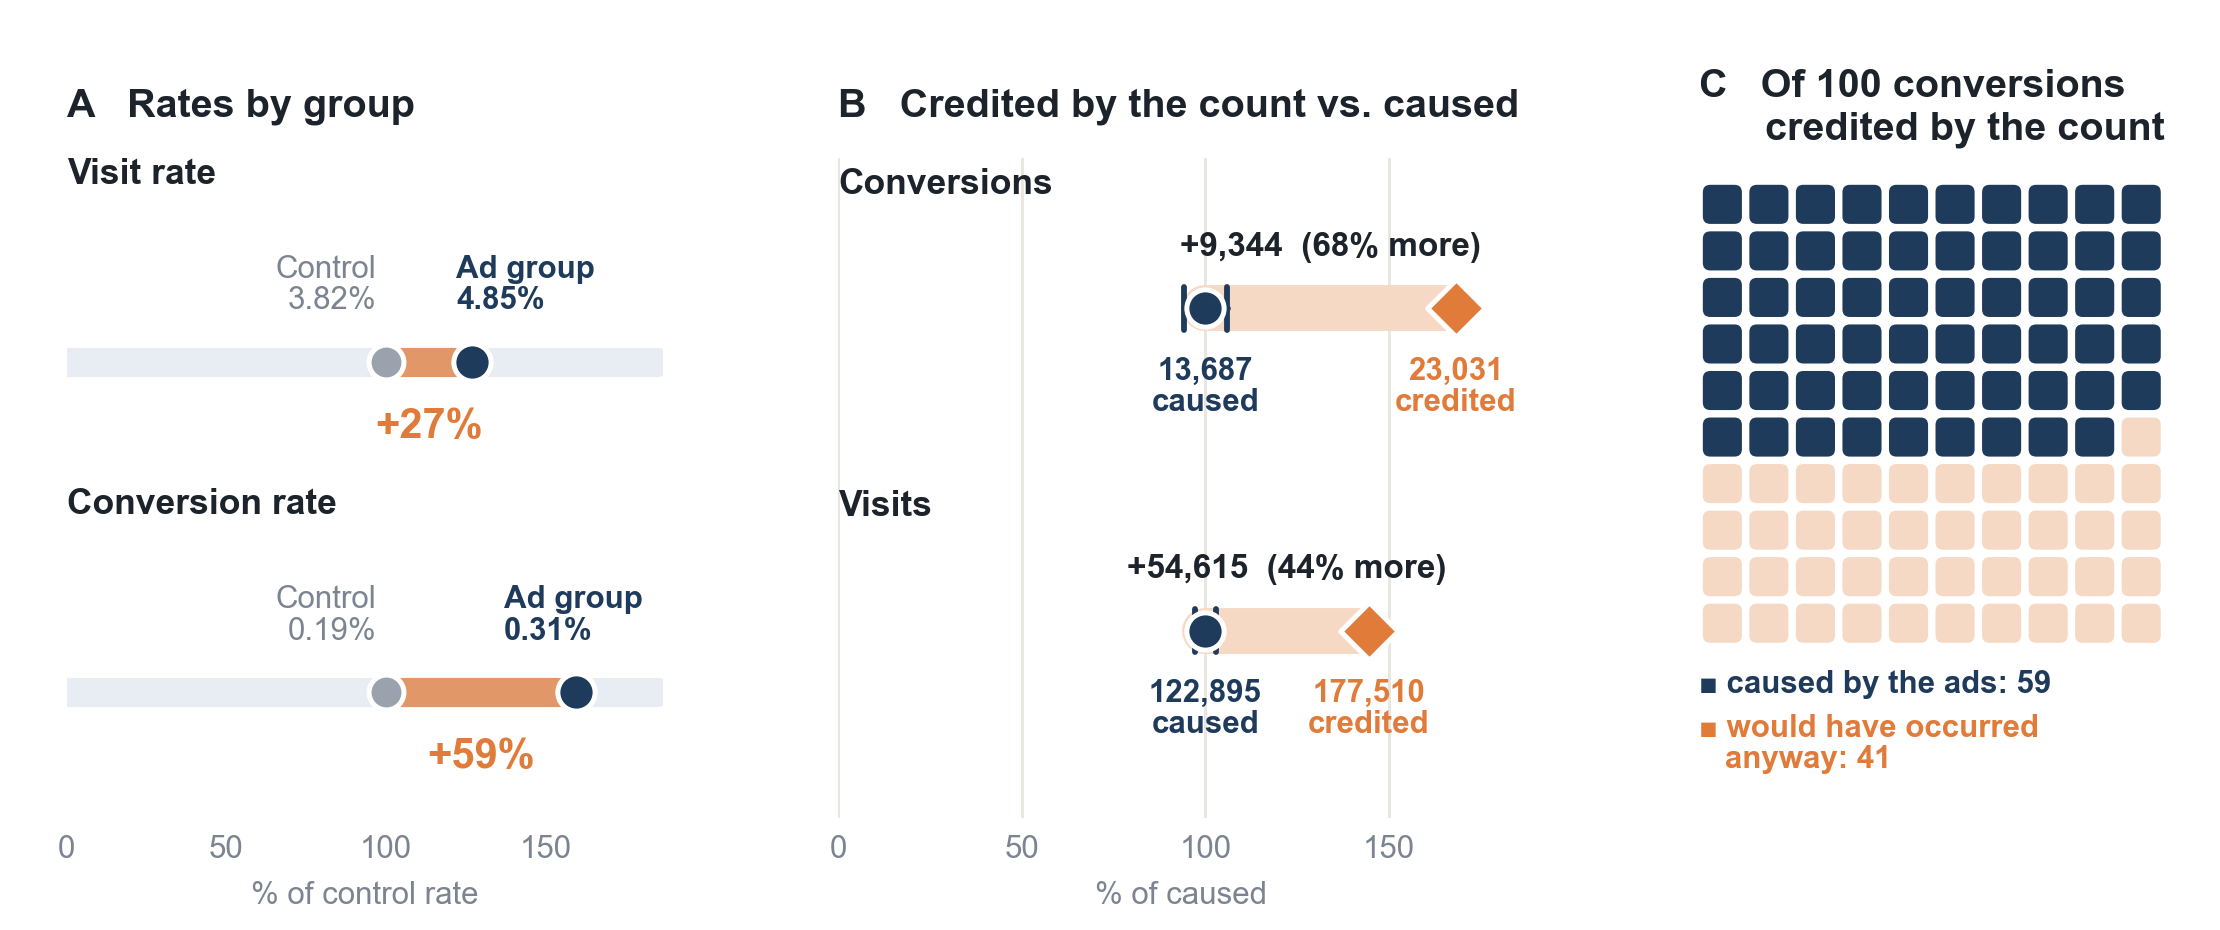
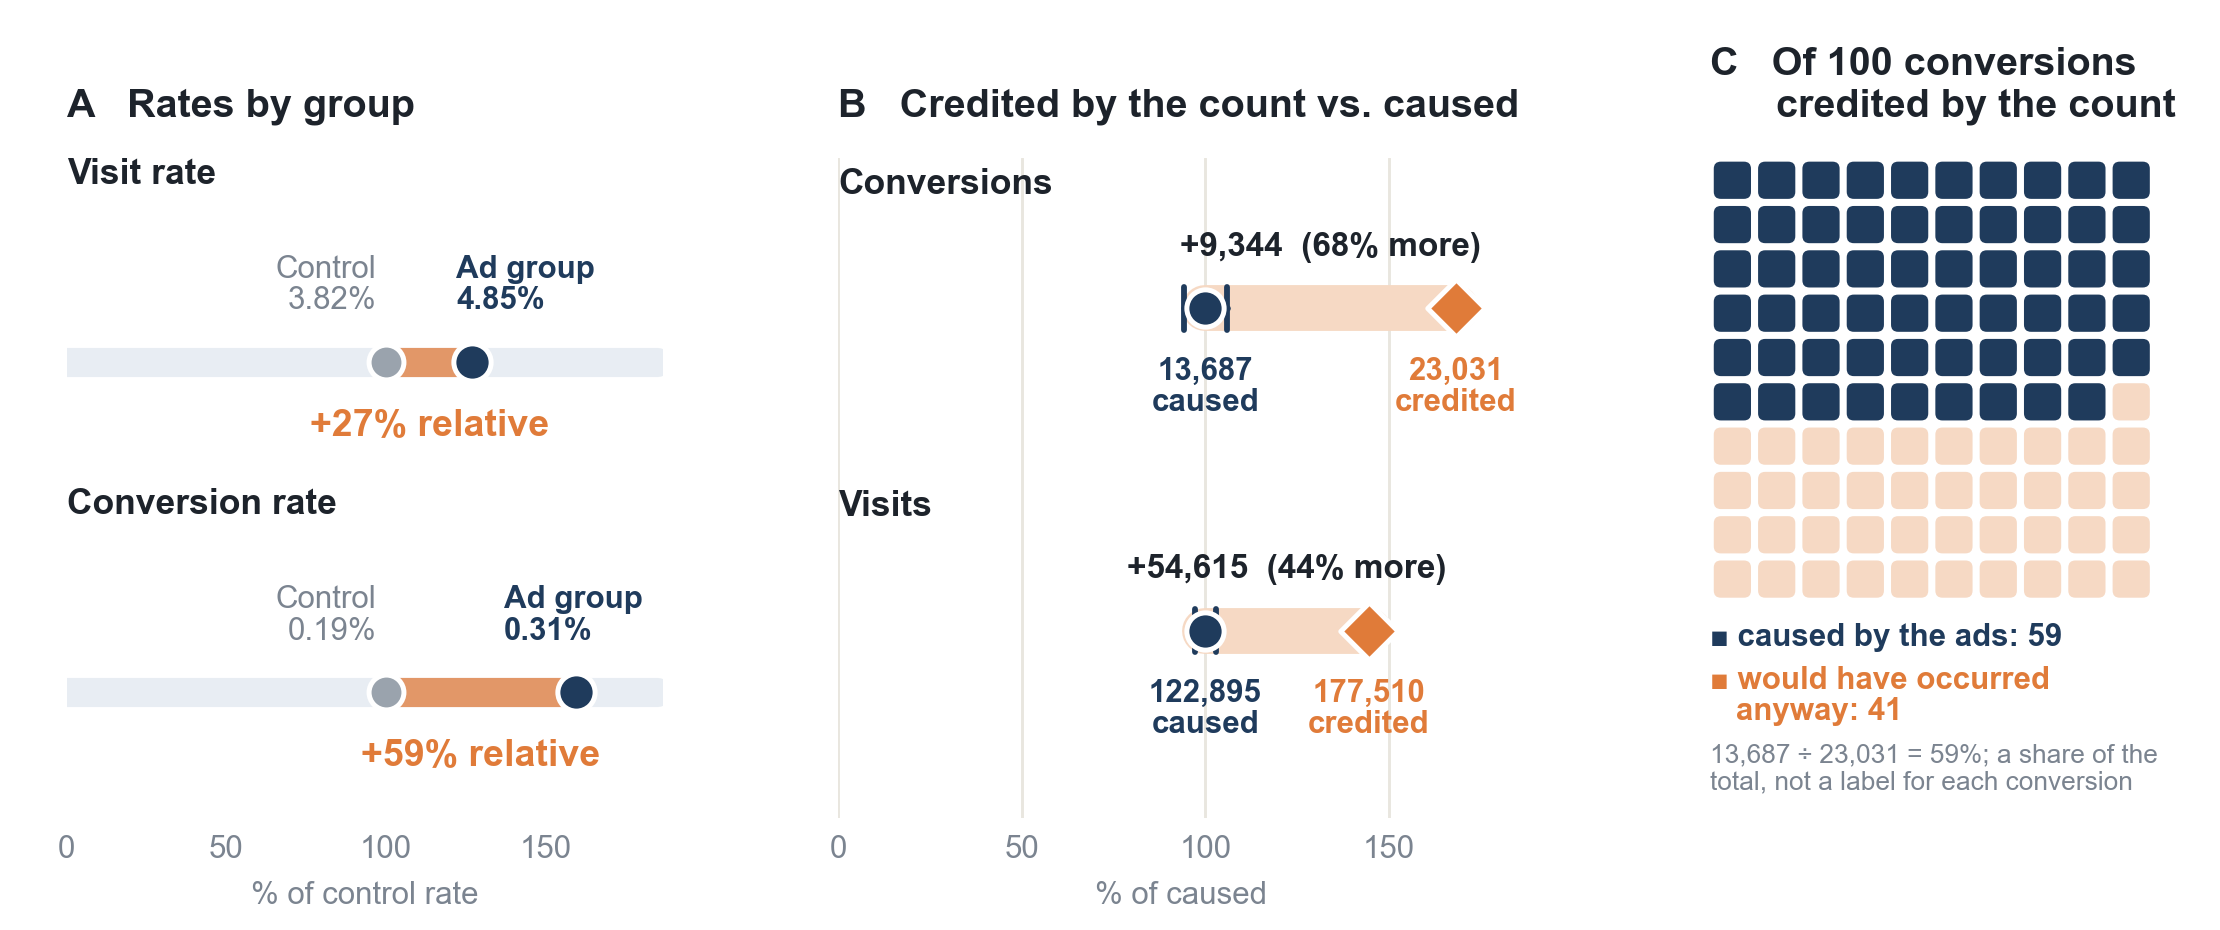
Separate the 59% lift from the 59-of-100 share in figure 1
- Panel A labels the lifts as relative
- Panel C shows the share's calculation and that it is a group-level share, not a label for each conversion
- The interactive legend states the same

Changed region(s): [[0.7459, 0.0312, 0.9946, 0.8731], [0.1554, 0.7796, 0.2797, 0.8419], [0.1243, 0.4366, 0.2486, 0.4677]]

diff --git a/docs/assets/explorer.js b/docs/assets/explorer.js
@@ -220,7 +220,7 @@ document.querySelectorAll("[data-count]").forEach(n => { const [v, d] = heroVals
   function hundred(k, dur) {
     const r = E[k], n = Math.round(100 * r.caused / r.credited);
     sq.forEach((s, i) => { s.style.transitionDelay = reduce ? "0ms" : `${(dur ? i * 7 : 0)}ms`; s.setAttribute("class", "sq " + (i < n ? "f-navy" : "f-osoft")); });
-    lgH.innerHTML = `<span><i style="background:var(--navy)"></i>Caused by the ads <b>${n}</b></span><span><i style="background:var(--orange-soft)"></i>Would have occurred anyway <b>${100 - n}</b></span>`;
+    lgH.innerHTML = `<span><i style="background:var(--navy)"></i>Caused by the ads <b>${n}</b></span><span><i style="background:var(--orange-soft)"></i>Would have occurred anyway <b>${100 - n}</b></span><span style="color:var(--muted)">${fmt(r.caused)} ÷ ${fmt(r.credited)}; a share of the total, not a label for each ${k === "conversion" ? "conversion" : "visit"}</span>`;
   }
   segControl($("#seg-gap"), v => set(v), key);
   drawHundred(); build();

diff --git a/docs/01.html b/docs/01.html
@@ -111,6 +111,6 @@
 </div></footer>
 <div id="tip" role="tooltip"></div>
 <script src="data.js"></script>
-<script src="assets/explorer.js?v=20261118c"></script>
+<script src="assets/explorer.js?v=20261118d"></script>
 </body>
 </html>

diff --git a/docs/02.html b/docs/02.html
@@ -105,6 +105,6 @@
 </div></footer>
 <div id="tip" role="tooltip"></div>
 <script src="data.js"></script>
-<script src="assets/explorer.js?v=20261118c"></script>
+<script src="assets/explorer.js?v=20261118d"></script>
 </body>
 </html>

diff --git a/docs/index.html b/docs/index.html
@@ -166,6 +166,6 @@
 </div></footer>
 <div id="tip" role="tooltip"></div>
 <script src="data.js"></script>
-<script src="assets/explorer.js?v=20261118c"></script>
+<script src="assets/explorer.js?v=20261118d"></script>
 </body>
 </html>

diff --git a/docs/03.html b/docs/03.html
@@ -85,6 +85,6 @@
 </div></footer>
 <div id="tip" role="tooltip"></div>
 <script src="data.js"></script>
-<script src="assets/explorer.js?v=20261118c"></script>
+<script src="assets/explorer.js?v=20261118d"></script>
 </body>
 </html>

diff --git a/docs/04.html b/docs/04.html
@@ -63,6 +63,6 @@
 </div></footer>
 <div id="tip" role="tooltip"></div>
 <script src="data.js"></script>
-<script src="assets/explorer.js?v=20261118c"></script>
+<script src="assets/explorer.js?v=20261118d"></script>
 </body>
 </html>

diff --git a/figures/figstyle.py b/figures/figstyle.py
@@ -156,7 +156,7 @@ def p_rates(fig, spec, letter, title="Visit and conversion rates by group"):
         dot(ax, 100, y, GREY, s=70); dot(ax, i1, y, NAVY, s=80)
         ax.text(97, y + 0.42, f"Control\n{100 * r['p0']:.2f}%", ha="right", va="bottom", fontsize=7.5, color=MUTED, linespacing=1.1)
         ax.text(min(i1 - 5, top - 48), y + 0.42, f"Ad group\n{100 * r['p1']:.2f}%", ha="left", va="bottom", fontsize=7.5, color=NAVY, fontweight="bold", linespacing=1.1)
-        ax.text((100 + i1) / 2, y - 0.42, f"+{100 * r['lift']:.0f}%", ha="center", va="top", fontsize=10, color=ORANGE, fontweight="bold")
+        ax.text((100 + i1) / 2, y - 0.42, f"+{100 * r['lift']:.0f}% relative", ha="center", va="top", fontsize=9, color=ORANGE, fontweight="bold")
         ax.text(0, y + 1.55, name, fontsize=8.5, fontweight="bold", color=INK, va="bottom")
     ax.set_xlim(0, top * 1.01); ax.set_ylim(-1.15, 4.85); ax.set_yticks([])
     ax.set_xticks([0, 50, 100, 150]); ax.grid(False); clean(ax, x=False)
@@ -193,9 +193,11 @@ def p_hundred(ax, letter, key="conversion", title=None):
     for i in range(100):
         c, rr = i % 10, 9 - i // 10
         rbox(ax, c + 0.08, rr + 0.08, 0.84, 0.84, NAVY if i < n else OSOFT, r=0.16)
-    ax.set_xlim(0, 10); ax.set_ylim(-3.2, 10); ax.set_aspect("equal"); ax.axis("off")
+    ax.set_xlim(0, 10); ax.set_ylim(-4.9, 10); ax.set_aspect("equal"); ax.axis("off")
     ax.text(0, -0.5, f"■ caused by the ads: {n}", color=NAVY, fontsize=7.5, fontweight="bold", va="top")
     ax.text(0, -1.45, f"■ would have occurred\n   anyway: {100 - n}", color=ORANGE, fontsize=7.5, fontweight="bold", va="top", linespacing=1.1)
+    ax.text(0, -3.2, f"{fmt(r['caused'])} ÷ {fmt(r['credited'])} = {100 * r['caused'] / r['credited']:.0f}%; a share of the\ntotal, not a label for each conversion",
+            color=MUTED, fontsize=6.3, va="top", linespacing=1.15)
     ax.set_title(f"{letter}   {title or 'Of 100 credited'}", loc="left", fontweight="bold", color=INK, pad=10)
 
 
